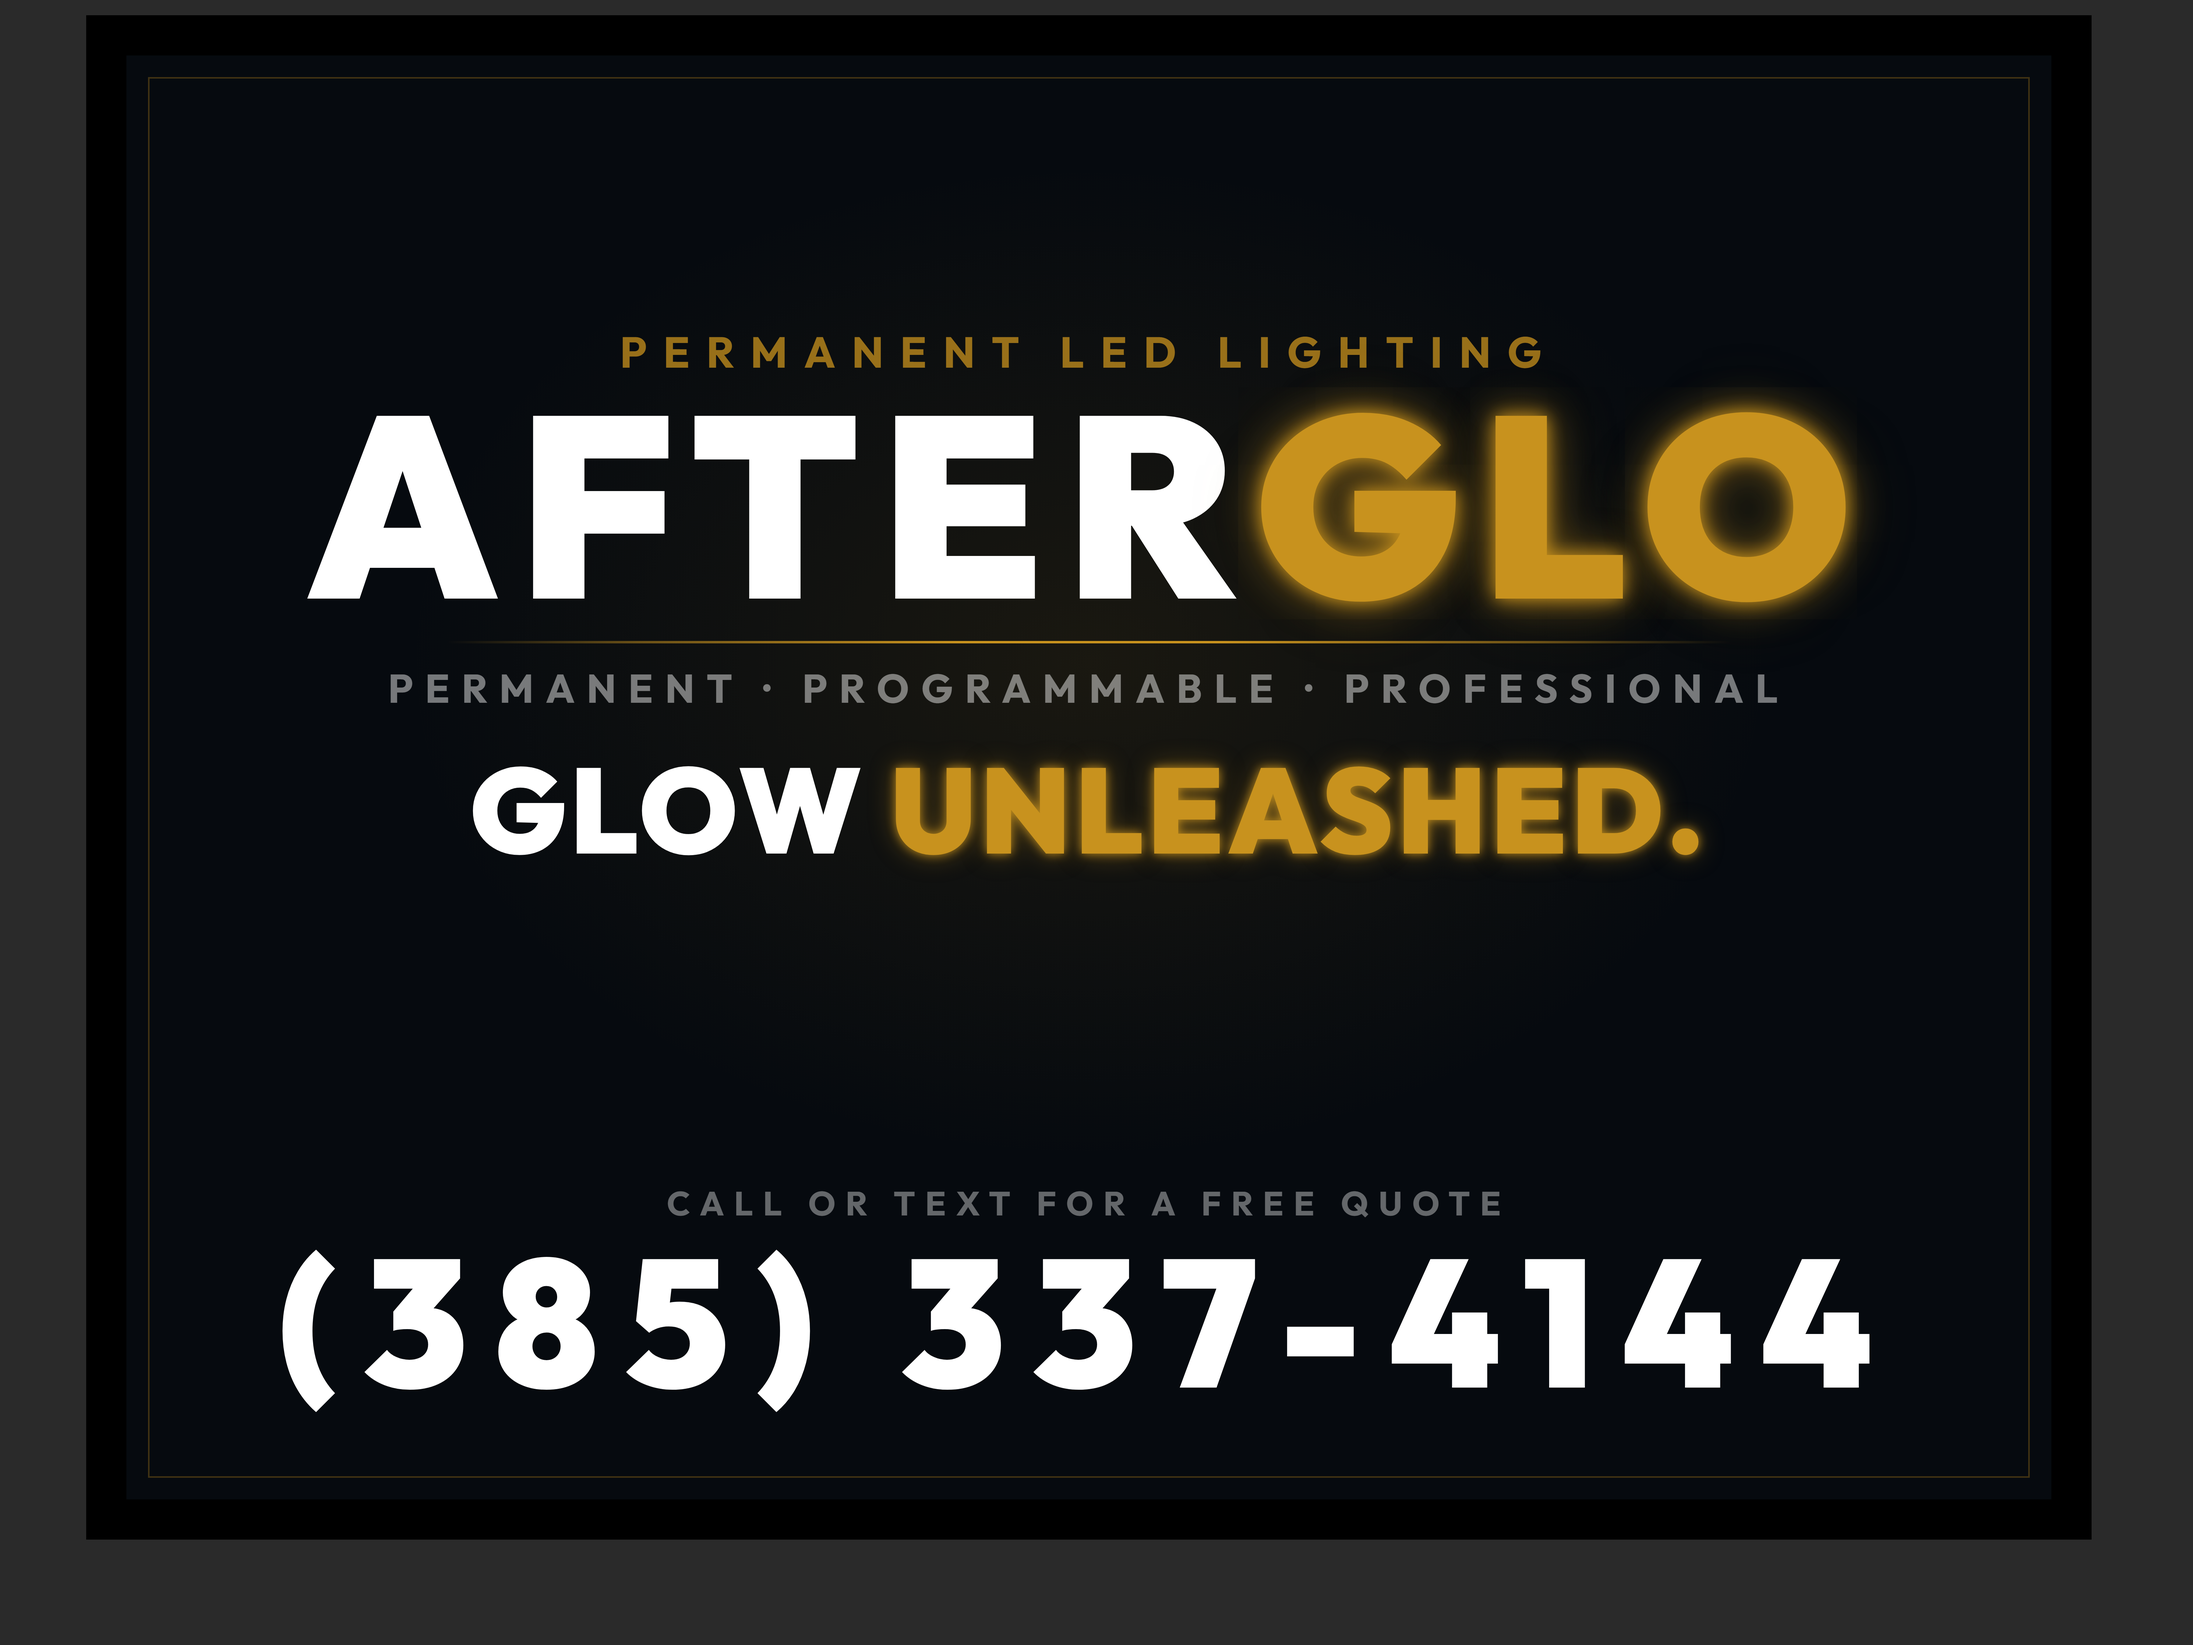
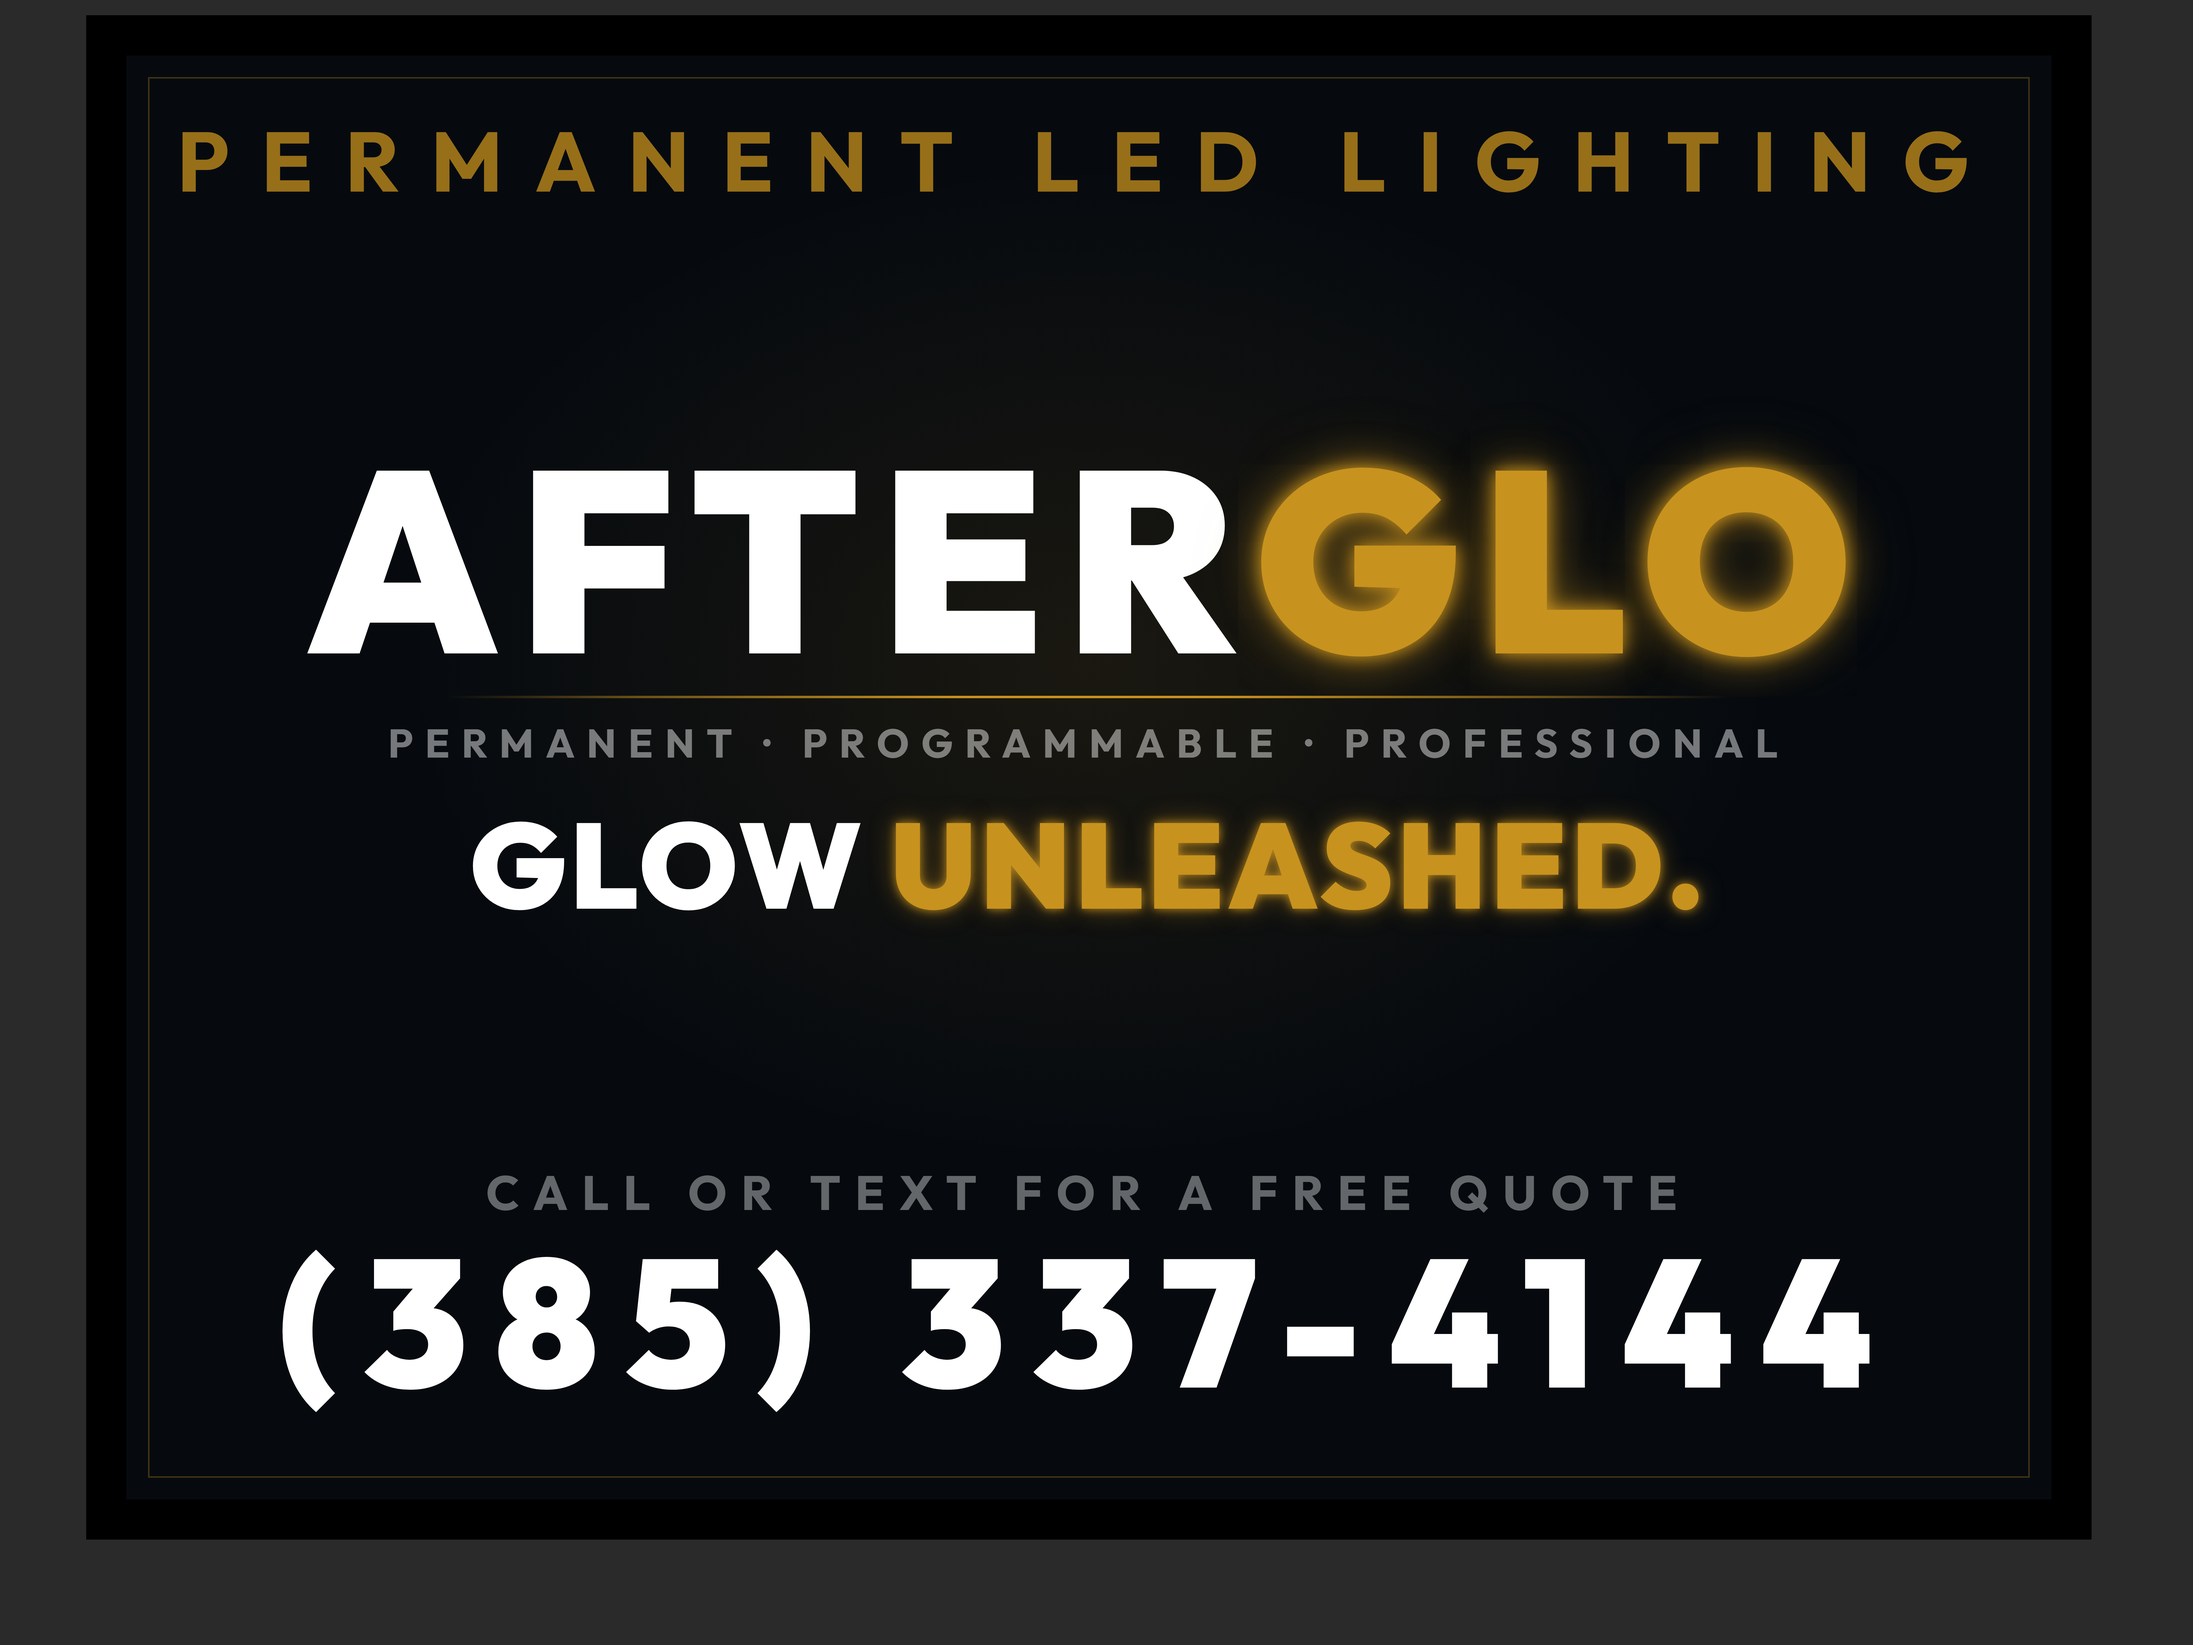
Yard signs: enlarge small text, pin tagline to top, center brand block
Permanent LED Lighting pinned near top of sign. Brand group and slogan
centered between top tagline and bottom CTA. Sub-text scaled down on
24x18 to prevent line break.

diff --git a/yardsign-30x18.html b/yardsign-30x18.html
@@ -73,7 +73,7 @@
     justify-content: center;
     width: 100%;
     height: 100%;
-    padding: 0.75in 1in 5.25in;
+    padding: 2.2in 1in 4.5in;
   }
 
   /* ── group wrappers ── */
@@ -101,12 +101,16 @@
 
   /* ── top tagline ── */
   .tagline-top {
-    font-size: 0.54in;
+    position: absolute;
+    top: 0.65in;
+    left: 0; right: 0;
+    text-align: center;
+    font-size: 1.05in;
     font-weight: 700;
     letter-spacing: 0.38em;
     text-transform: uppercase;
     color: rgba(200,146,30,0.75);
-    margin-bottom: 0.15in;
+    z-index: 1;
   }
 
   /* ── logo ── */
@@ -138,7 +142,7 @@
 
   /* ── three-word tagline ── */
   .sub-text {
-    font-size: 0.5in;
+    font-size: 0.7in;
     font-weight: 700;
     letter-spacing: 0.30em;
     text-transform: uppercase;
@@ -166,12 +170,12 @@
 
   /* ── CTA ── */
   .call-label {
-    font-size: 0.42in;
+    font-size: 0.6in;
     font-weight: 700;
     letter-spacing: 0.30em;
     text-transform: uppercase;
     color: rgba(255,255,255,0.38);
-    margin-bottom: 0.08in;
+    margin-bottom: 0.1in;
   }
 
   .phone {

diff --git a/yardsign-24x18.html b/yardsign-24x18.html
@@ -73,7 +73,7 @@
     justify-content: center;
     width: 100%;
     height: 100%;
-    padding: 0.75in 1in 5.25in;
+    padding: 2.2in 1in 4.5in;
   }
 
   /* ── group wrappers ── */
@@ -101,12 +101,16 @@
 
   /* ── top tagline ── */
   .tagline-top {
-    font-size: 0.54in;
+    position: absolute;
+    top: 0.65in;
+    left: 0; right: 0;
+    text-align: center;
+    font-size: 1.05in;
     font-weight: 700;
     letter-spacing: 0.38em;
     text-transform: uppercase;
     color: rgba(200,146,30,0.75);
-    margin-bottom: 0.15in;
+    z-index: 1;
   }
 
   /* ── logo ── */
@@ -166,12 +170,12 @@
 
   /* ── CTA ── */
   .call-label {
-    font-size: 0.42in;
+    font-size: 0.6in;
     font-weight: 700;
     letter-spacing: 0.30em;
     text-transform: uppercase;
     color: rgba(255,255,255,0.38);
-    margin-bottom: 0.08in;
+    margin-bottom: 0.1in;
   }
 
   .phone {
